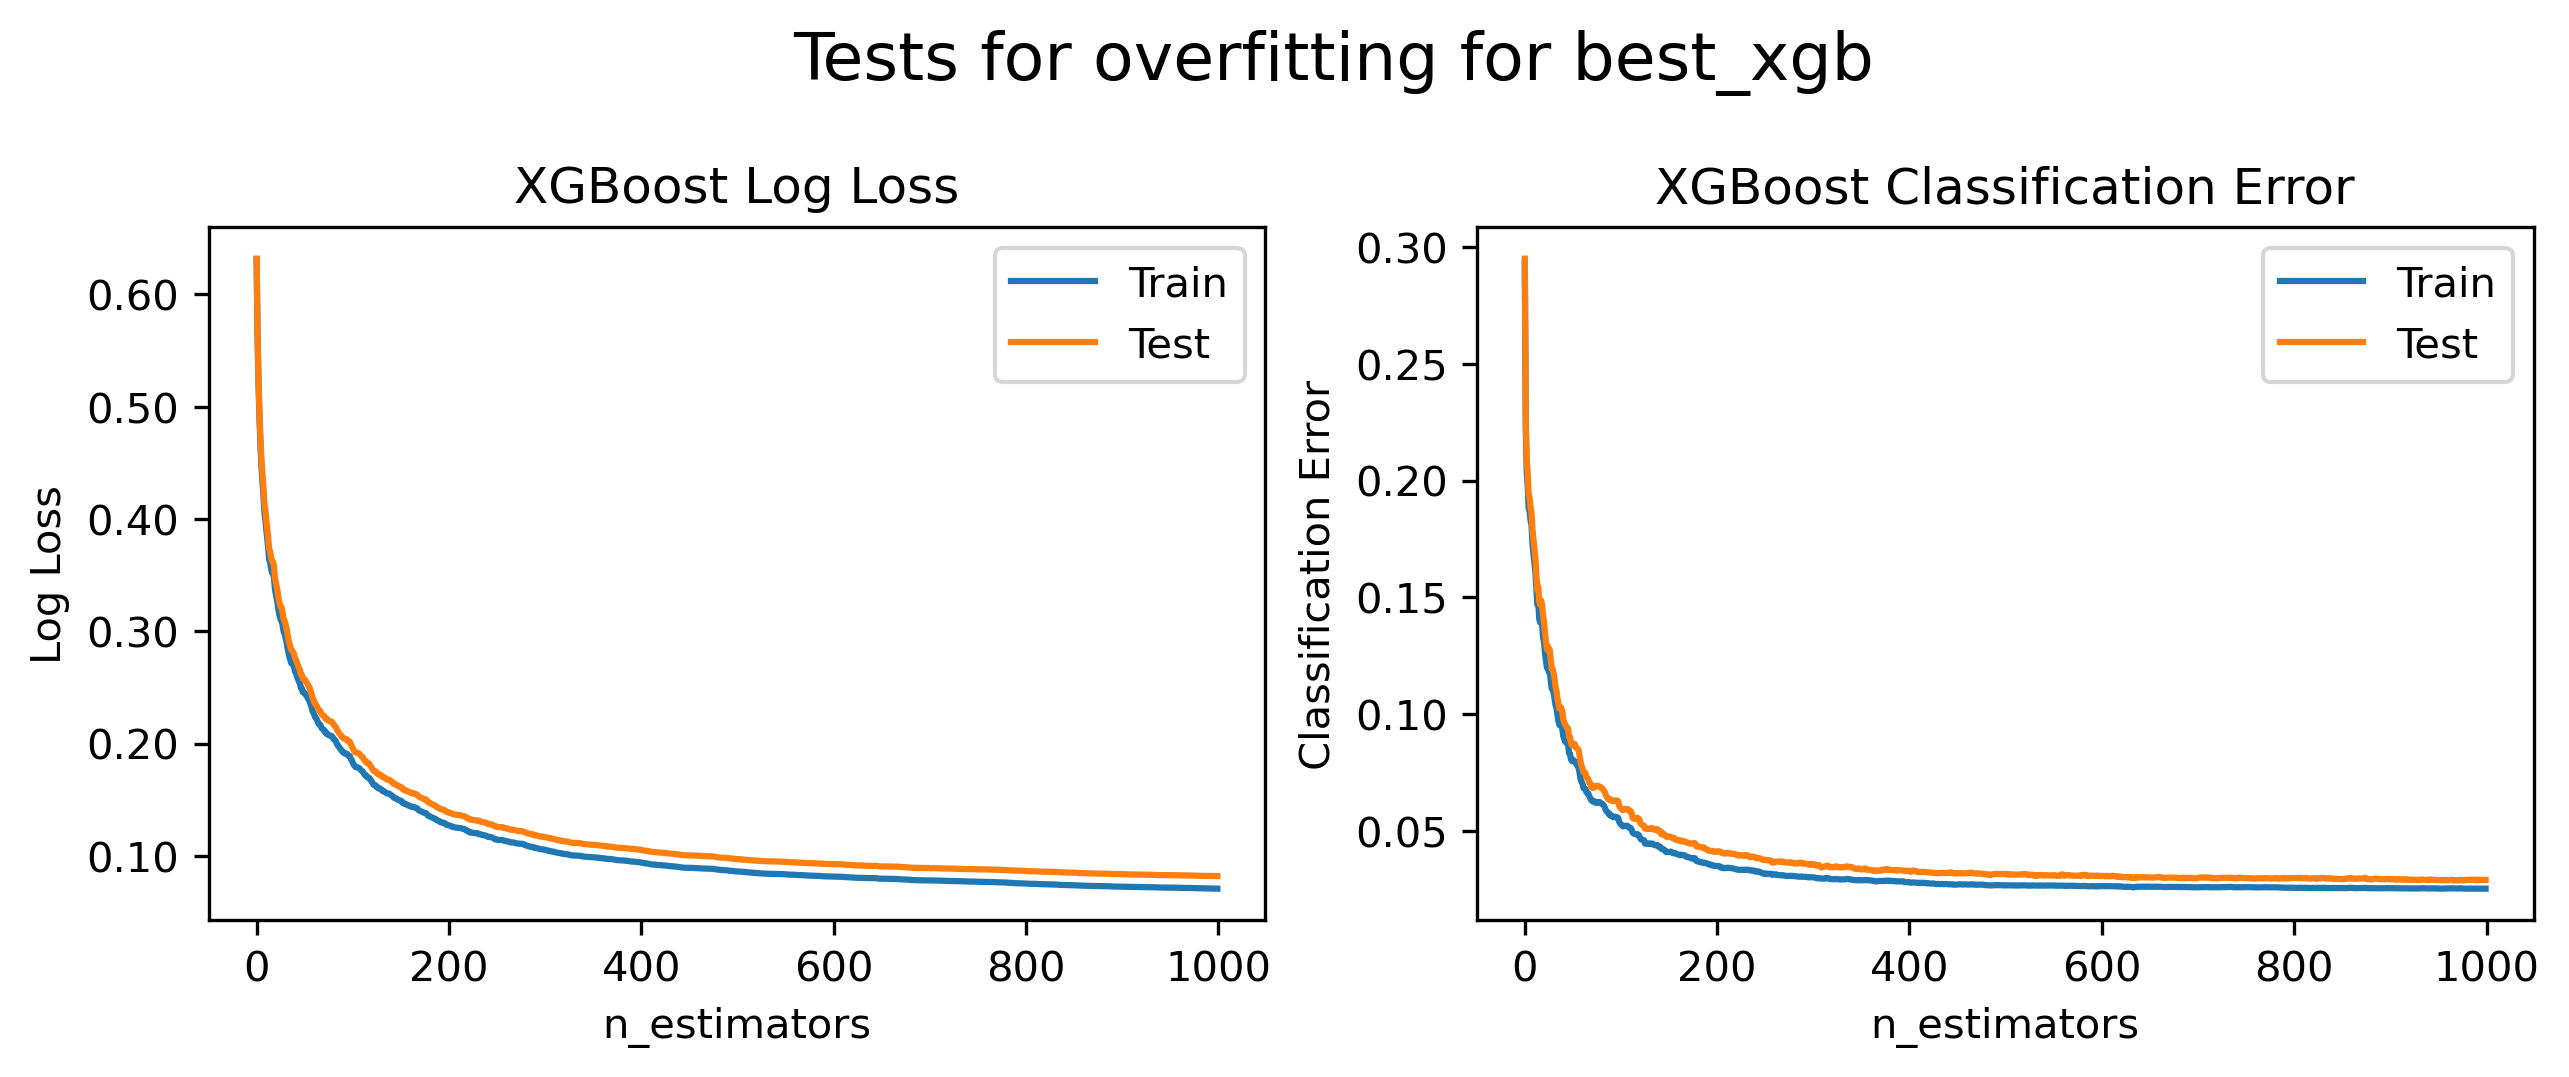
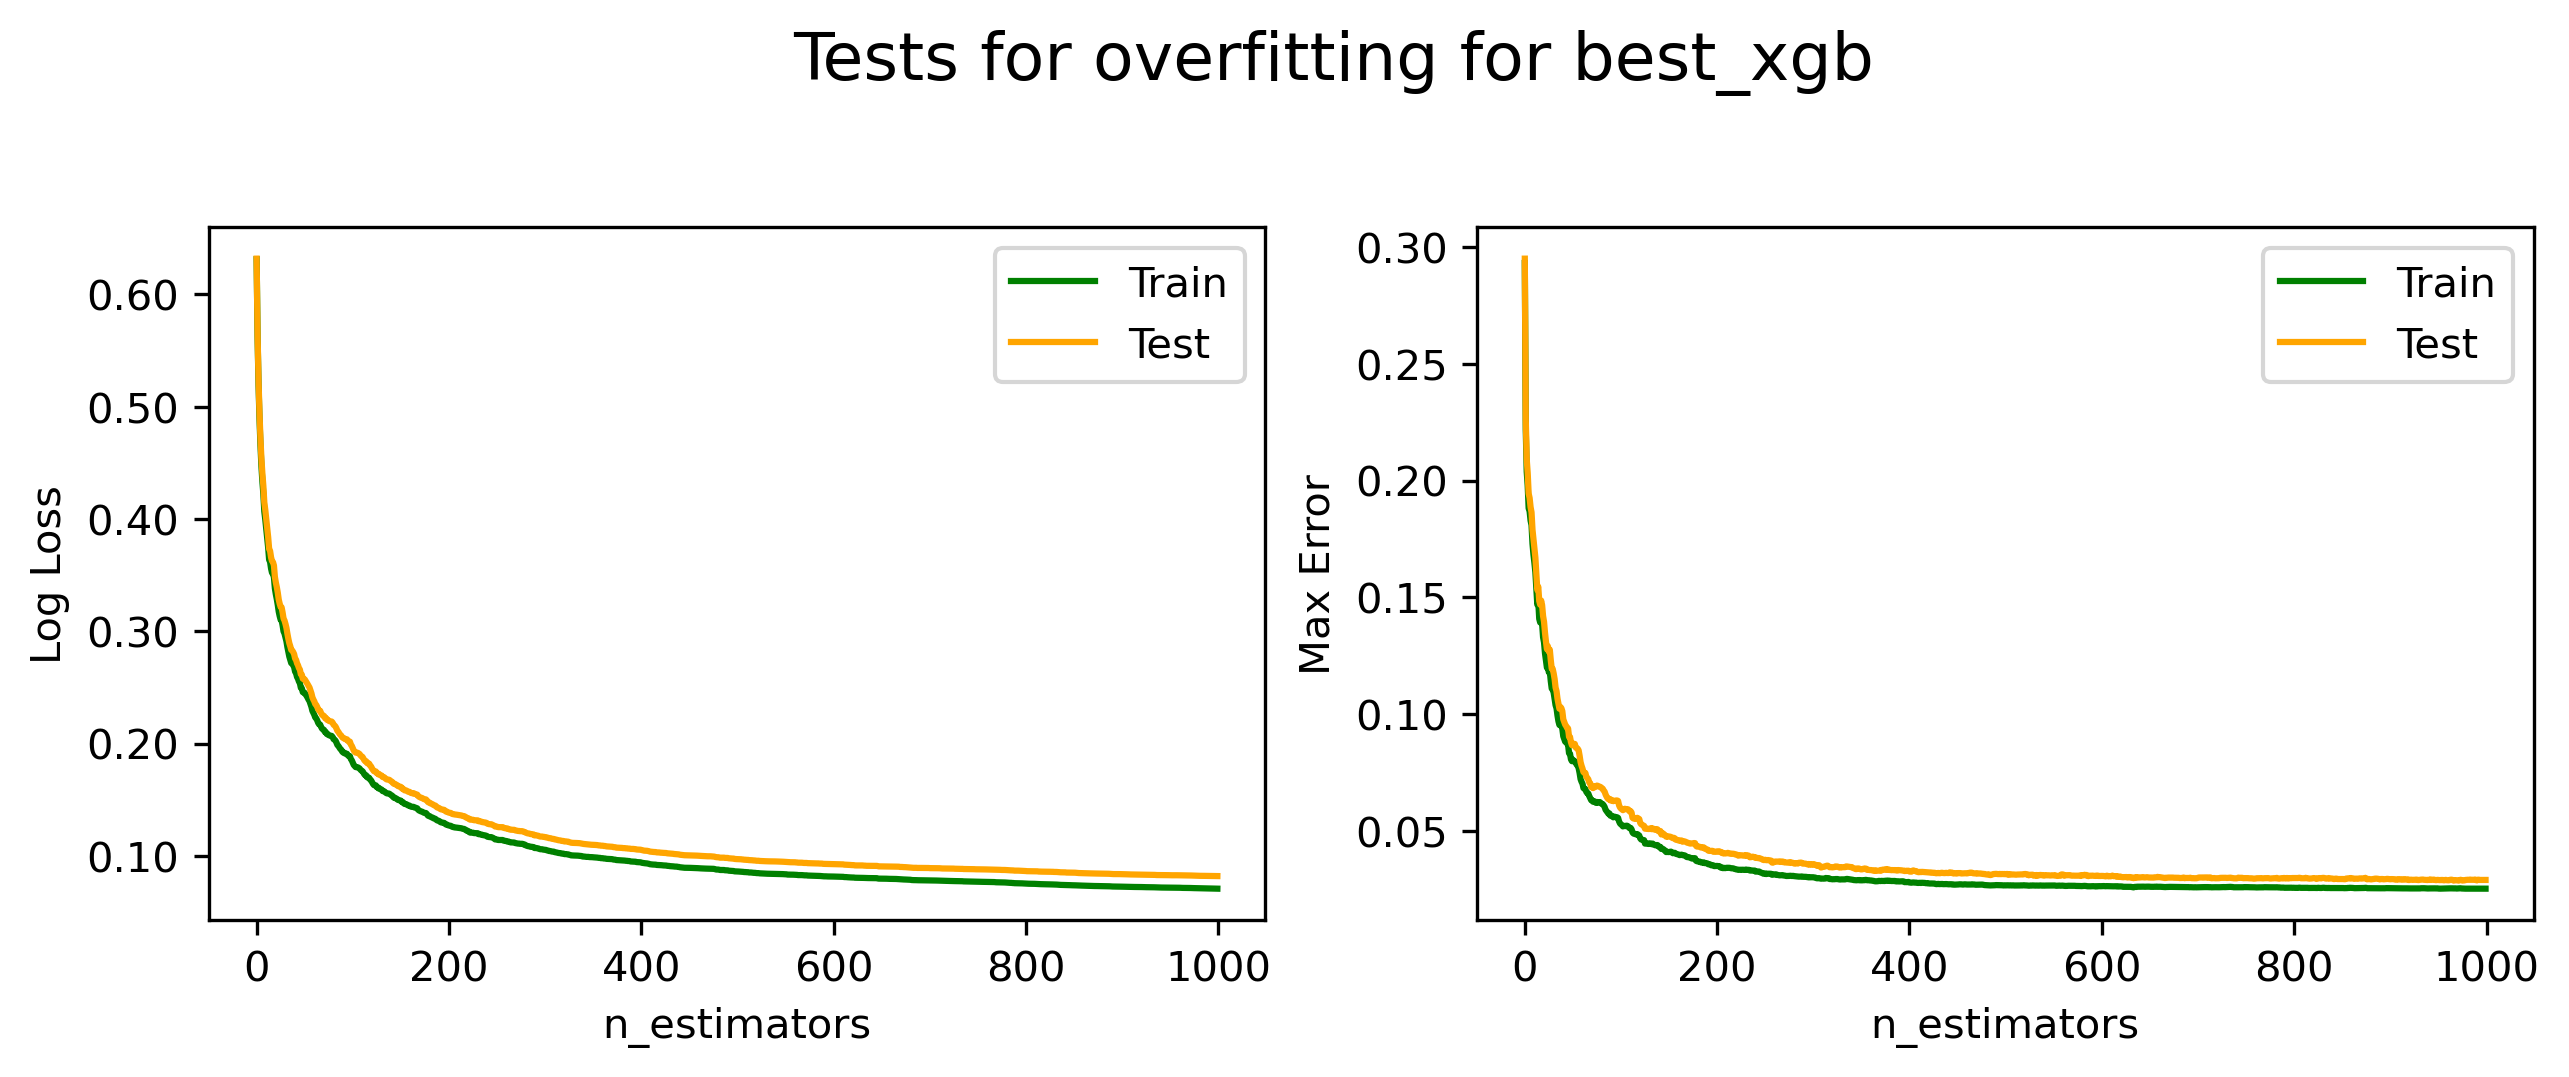
changed line colors in plots of test of xgb

diff --git a/model_definition.py b/model_definition.py
@@ -221,7 +221,6 @@ def modelfit(name_of_mod, x_train, y_train, x_test, y_test,
         ax1.set_ylabel('Log Loss')
         ax1.yaxis.set_major_formatter(FormatStrFormatter('%.2f'))
         ax1.set_xlabel('n_estimators')
-        ax1.set_title('XGBoost Log Loss')
         
         # Plot classification max error
         ax2.plot(x_axis, results['validation_0']['error'], label='Train',
@@ -231,10 +230,9 @@ def modelfit(name_of_mod, x_train, y_train, x_test, y_test,
                  color='orange'
                  )
         ax2.legend()
-        ax2.set_ylabel('Classification Error')
+        ax2.set_ylabel('Max Error')
         ax2.yaxis.set_major_formatter(FormatStrFormatter('%.2f'))
         ax2.set_xlabel('n_estimators')
-        ax2.set_title('XGBoost Classification Error')
         
         # Save the plots
         path_fig_test = dir_name+'/'+name_of_mod+'_test'+'.png'
